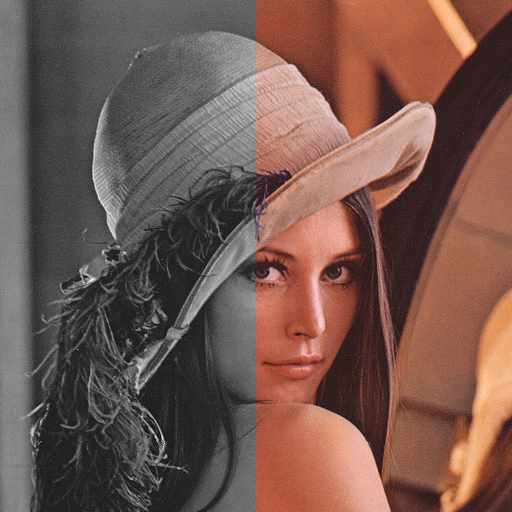
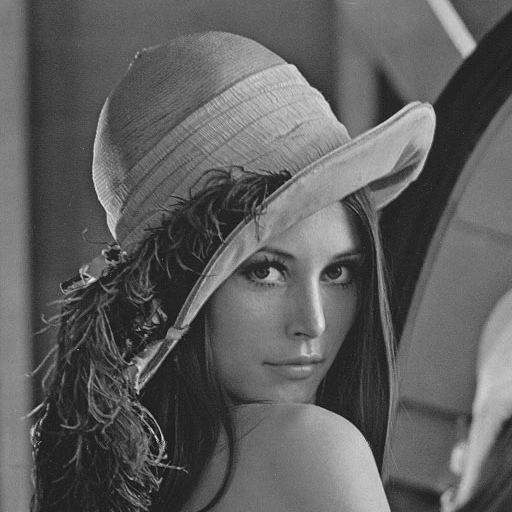
Minor changes

diff --git a/OpenCV Demo/src/spring2017ip/OpenCVDemo.java b/OpenCV Demo/src/spring2017ip/OpenCVDemo.java
@@ -30,7 +30,7 @@ public class OpenCVDemo {
         Mat image = Imgcodecs.imread("lena.png");
         double values[] = {0, 0, 0};
         for (int i = 0; i < image.height(); i++)
-            for (int j = 0; j < image.width() / 2; j++) {
+            for (int j = 0; j < image.width(); j++) {
                 values = image.get(i, j);
                 double average = (values[0] + values[1] + values[2]) / 3.0;
                 values[0] = average;
